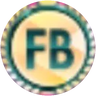
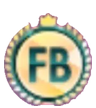
Lamp medals: cut FB/AB along the laurel and crown outline instead of a circle

diff --git a/rating_manager/src/snapshot.py b/rating_manager/src/snapshot.py
@@ -30,7 +30,8 @@ DIFF_COLORS = {
     "LUN": ("#f1f5f9", "#e2e8f0", "#0f172a"),
 }
 RANK_COLORS = {"SSS+": "#fcd34d", "SSS": "#f472b6", "SS": "#c084fc", "S": "#22d3ee", "AAA": "#34d399", "-": "#64748b"}
-MEDAL_SIZE = 2.0  # ランプのメダルの直径（ランプの文字サイズに対する倍率。画面の parts.lamp_badge と同じ）
+MEDAL_SIZE = 2.3  # ランプのメダル画像の幅（ランプの文字サイズに対する倍率。画面の parts.lamp_badge と同じ）
+MEDAL_ASPECT = 108 / 96  # メダル画像の 高さ/幅
 
 # レートの色区分ごとのグラデーション: (向き, [(位置, 色)])。位置は数字の上端0〜下端1
 TIER_GRADIENTS = {
@@ -238,12 +239,13 @@ async def render(cards, header, footer):
 
         # 左上：難易度、黒帯のすぐ上の右（クリアランクの上）：ランプのメダル（黒帯と接しないよう少し浮かせる）
         badge(ctx, jx, y, c["diff"], f * 0.75, badge_bg, badge_fg)
-        d = max(6.0, bar_fs * 0.9) * MEDAL_SIZE  # 画面の parts.lamp_fs と同じ最小サイズ
-        mx = jx + jacket - d * len(c["medals"])
+        mw = max(6.0, bar_fs * 0.9) * MEDAL_SIZE  # 画面の parts.lamp_fs と同じ最小サイズ
+        mh = mw * MEDAL_ASPECT
+        mx = jx + jacket - mw * len(c["medals"])
         for url in c["medals"]:
             if medals.get(url) is not None:
-                ctx.drawImage(medals[url], mx, y + jacket - bar_h - d - 1.5, d, d)
-            mx += d
+                ctx.drawImage(medals[url], mx, y + jacket - bar_h - mh - 1.5, mw, mh)
+            mx += mw
 
         # 下部の黒帯：スコア（P枠は★）を左、クリアランクを右に寄せる
         ctx.fillStyle = "#000000"

diff --git a/rating_manager/src/parts.py b/rating_manager/src/parts.py
@@ -46,7 +46,8 @@ LAMP_MEDALS = {
     "ab": ("ab",),
     "fc": ("fc",),
 }
-MEDAL_SIZE = 2.0  # メダルの直径（ランプの文字サイズ lamp_fs に対する倍率）
+MEDAL_SIZE = 2.3  # メダル画像の幅（ランプの文字サイズ lamp_fs に対する倍率）
+MEDAL_ASPECT = 108 / 96  # メダル画像の 高さ/幅（上に王冠がある分だけ縦長）
 
 # 「1,008,119 SSS+」の幅は約9.4em（字間を詰めた等幅9文字＋ランク4文字＋余白）
 SCORE_BAR_EM = 9.6
@@ -93,10 +94,10 @@ def lamp_badge(rec, fs):
     medals = lamp_medals(rec)
     if not medals:
         return ""
-    d = fs * MEDAL_SIZE
+    w = fs * MEDAL_SIZE
     return ('<span class="flex">' + "".join(
-        f'<img src="{url}" alt="" class="block" style="width:{d:.1f}px;height:{d:.1f}px">' for url in medals)
-        + "</span>")
+        f'<img src="{url}" alt="" class="block" style="width:{w:.1f}px;height:{w * MEDAL_ASPECT:.1f}px">'
+        for url in medals) + "</span>")
 
 
 def score_text(score):
